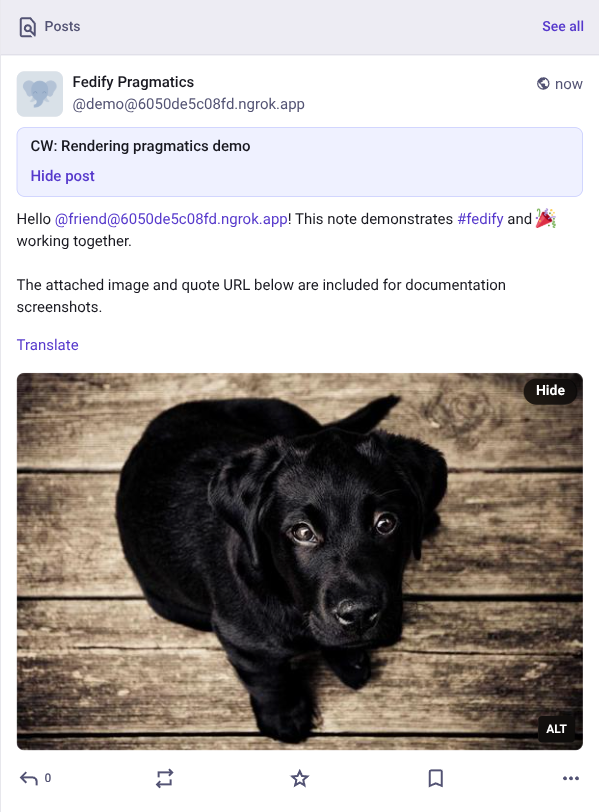
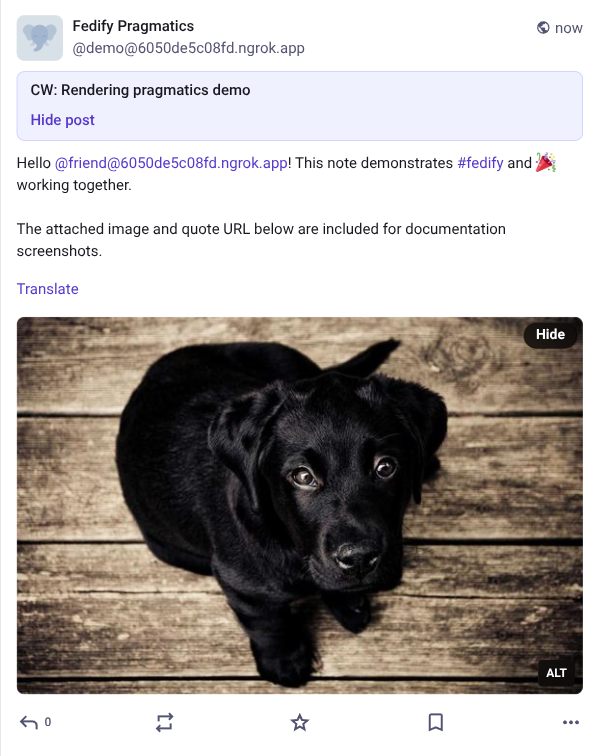
Refine pragmatics docs presentation
Tighten the new pragmatics examples by switching from line-range
highlights to field-level highlights, and crop the Mastodon
screenshots so they focus on the relevant UI instead of the
search chrome.

Also ignore temporary Playwright and demo-server artifacts used
while collecting documentation screenshots.

https://github.com/fedify-dev/fedify/issues/28

Assisted-by: OpenCode:gpt-5.4

diff --git a/docs/manual/pragmatics.md b/docs/manual/pragmatics.md
@@ -441,16 +441,16 @@ The `Note` type is the most common object type for short posts.  In Mastodon,
 the `content` property becomes the post body, the `summary` property becomes a
 content warning, and `attachments` are rendered below the body.
 
-~~~~ typescript{4-23} twoslash
+~~~~ typescript twoslash
 import { Hashtag, Image, Mention, Note } from "@fedify/vocab";
 // ---cut-before---
 new Note({
-  content:
+  content:  // [!code highlight]
     '<p>Hello <a class="mention" href="https://example.com/users/friend">' +
     '@friend@example.com</a>! This note demonstrates ' +
     '<a href="https://example.com/tags/fedify">#fedify</a>.</p>',
-  summary: "CW: Rendering pragmatics demo",
-  attachments: [
+  summary: "CW: Rendering pragmatics demo",  // [!code highlight]
+  attachments: [  // [!code highlight]
     new Image({
       url: new URL("https://picsum.photos/id/237/1200/800"),
       mediaType: "image/jpeg",
@@ -487,16 +487,16 @@ In Mastodon, the `name` property is displayed as the title, the `url` property
 is shown as the canonical link, and `tags` can still surface hashtags below the
 post body.
 
-~~~~ typescript{4-13} twoslash
+~~~~ typescript twoslash
 import { Article, Hashtag } from "@fedify/vocab";
 // ---cut-before---
 new Article({
-  name: "Pragmatics of `Article` objects",
-  url: new URL("https://example.com/blog/pragmatics-article"),
-  content:
+  name: "Pragmatics of `Article` objects",  // [!code highlight]
+  url: new URL("https://example.com/blog/pragmatics-article"),  // [!code highlight]
+  content:  // [!code highlight]
     "<p>This article demonstrates how a long-form object can expose a title " +
     "and a canonical permalink.</p>",
-  tags: [
+  tags: [  // [!code highlight]
     new Hashtag({
       href: new URL("https://example.com/tags/activitypub"),
       name: "#activitypub",
@@ -523,13 +523,13 @@ from `content`, the poll choices come from `exclusiveOptions` or
 `inclusiveOptions`, and metadata such as `voters` and `endTime` are displayed
 below the choices.
 
-~~~~ typescript{4-20} twoslash
+~~~~ typescript twoslash
 import { Collection, Note, Question } from "@fedify/vocab";
 import { Temporal } from "@js-temporal/polyfill";
 // ---cut-before---
 new Question({
-  content: "<p>Which pragmatics example should the manual explain first?</p>",
-  exclusiveOptions: [
+  content: "<p>Which pragmatics example should the manual explain first?</p>",  // [!code highlight]
+  exclusiveOptions: [  // [!code highlight]
     new Note({ name: "A short note", replies: new Collection({ totalItems: 4 }) }),
     new Note({ name: "A long article", replies: new Collection({ totalItems: 2 }) }),
     new Note({
@@ -537,8 +537,8 @@ new Question({
       replies: new Collection({ totalItems: 7 }),
     }),
   ],
-  voters: 13,
-  endTime: Temporal.Instant.from("2026-04-28T12:00:00Z"),
+  voters: 13,  // [!code highlight]
+  endTime: Temporal.Instant.from("2026-04-28T12:00:00Z"),  // [!code highlight]
 })
 ~~~~
 
